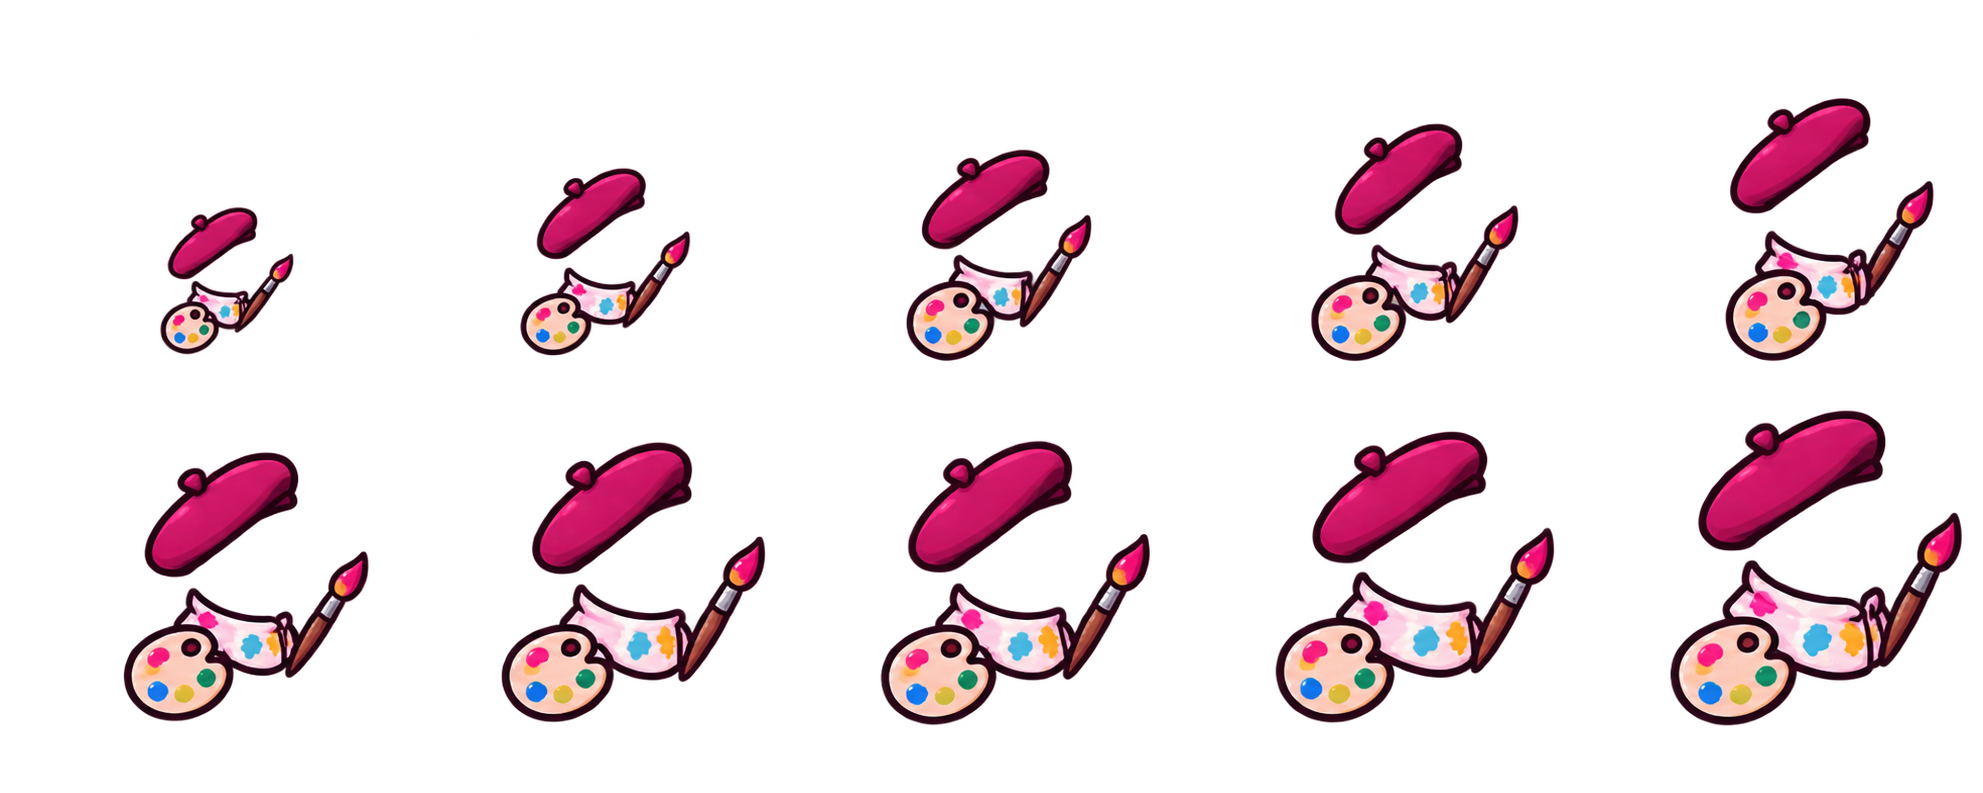
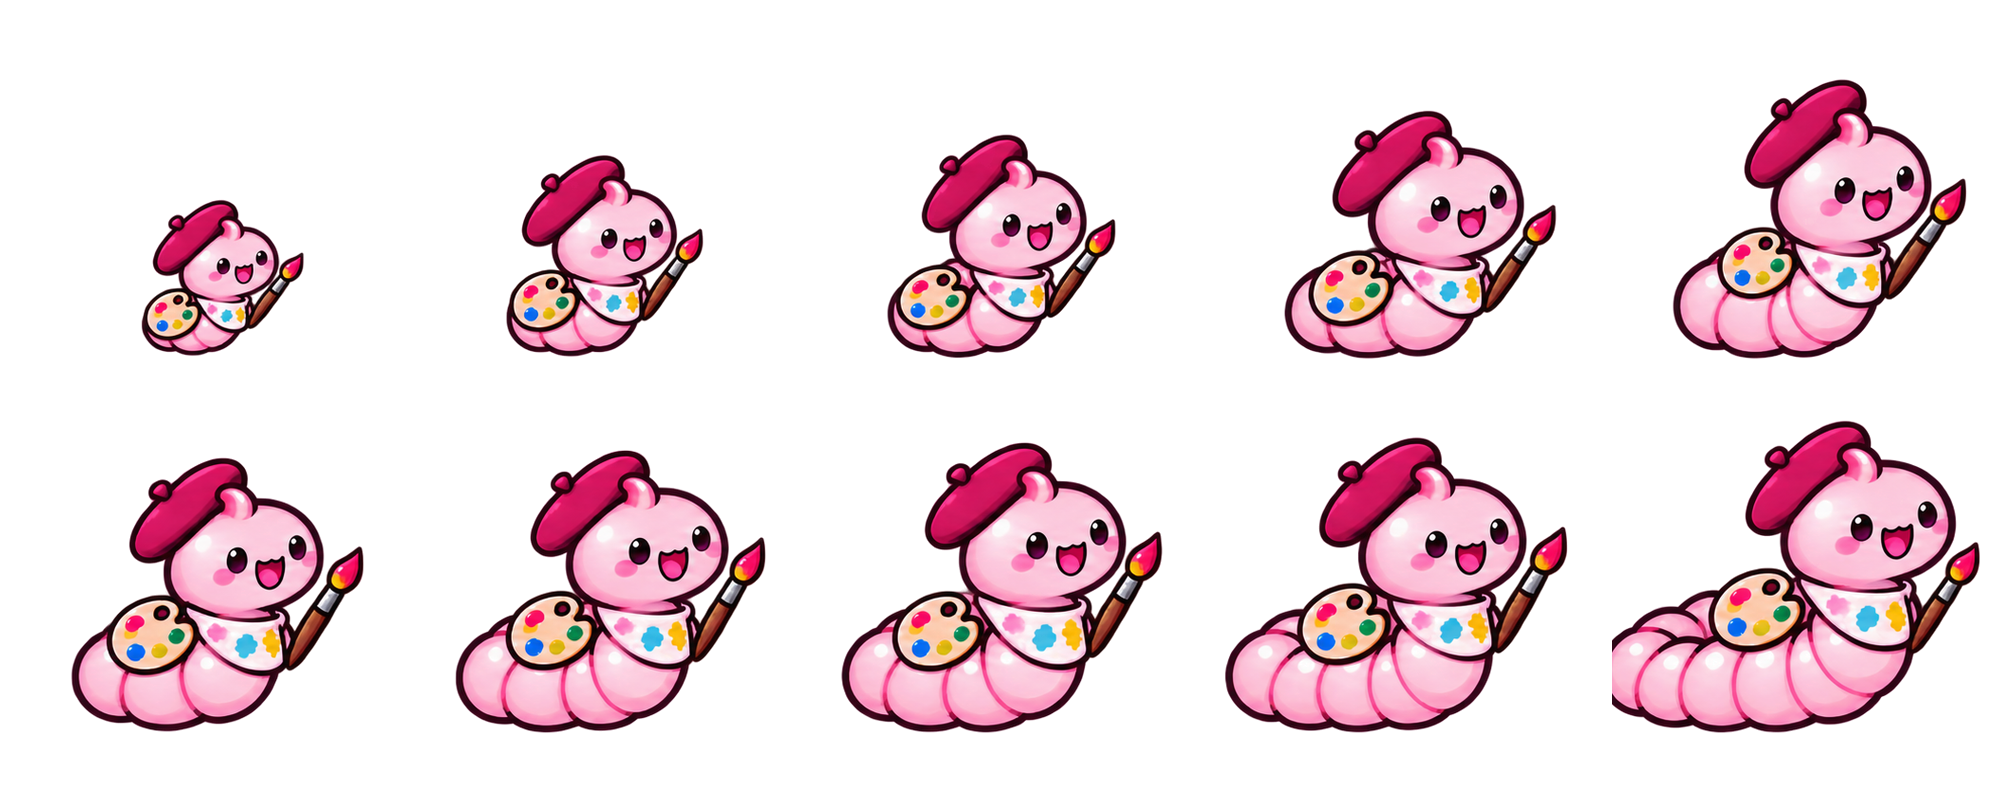
Fix tapeworm skin registration

diff --git a/tests/test_cepen.py b/tests/test_cepen.py
@@ -353,7 +353,7 @@ class CepenTests(unittest.TestCase):
         self.assertIn("12. 🐛 Игрок 4 — 4 см", full_text)
         self.assertIsNone(cepen.rating_keyboard(1, full_total, full=True))
 
-    def test_avatar_levels_render_base_and_profession_layers(self):
+    def test_avatar_levels_render_registered_profession_sprites(self):
         values = [0, 15, 15.001, 30, 31, 60, 61, 120, 121, 200,
                   201, 300, 301, 400, 401, 500, 501, 700, 701]
         self.assertEqual(
@@ -369,6 +369,36 @@ class CepenTests(unittest.TestCase):
                 self.assertEqual("RGB", image.mode)
             with Image.open(gamer) as image:
                 self.assertEqual((1024, 1024), image.size)
+                rendered_gamer = image.copy()
+            expected_gamer = Image.alpha_composite(
+                cepen_avatar._background(),
+                cepen_avatar._cell(
+                    cepen_avatar._sheet(
+                        str(cepen_avatar.SKIN_DIR / "gamer.png")
+                    ),
+                    10,
+                ),
+            ).convert("RGB")
+            self.assertEqual(expected_gamer.tobytes(), rendered_gamer.tobytes())
+
+        sheets = [
+            cepen_avatar.BASE_SHEET,
+            *(cepen_avatar.SKIN_DIR / f"{key}.png" for key in cepen_avatar.PROFESSIONS),
+        ]
+        for sheet_path in sheets:
+            with Image.open(sheet_path) as sheet:
+                self.assertEqual((2000, 800), sheet.size)
+                self.assertEqual("RGBA", sheet.mode)
+            source = cepen_avatar._sheet(str(sheet_path))
+            for level in range(1, 11):
+                alpha_bounds = cepen_avatar._cell(source, level).getchannel("A").getbbox()
+                self.assertIsNotNone(alpha_bounds, (sheet_path, level))
+                left, top, right, bottom = alpha_bounds
+                self.assertGreaterEqual(
+                    min(left, top, 1024 - right, 1024 - bottom),
+                    10,
+                    (sheet_path, level, alpha_bounds),
+                )
 
     def test_profession_menu_and_atomic_paid_changes(self):
         with closing(db.get_connection()) as conn:

diff --git a/cepen_avatar.py b/cepen_avatar.py
@@ -1,4 +1,4 @@
-"""Build tapeworm avatars from a neutral growth level and profession overlay."""
+"""Build tapeworm avatars from registered base and profession sprite sheets."""
 
 from __future__ import annotations
 
@@ -13,7 +13,7 @@ from PIL import Image
 ASSET_DIR = Path(__file__).resolve().parent / "assets" / "cepen"
 BASE_SHEET = ASSET_DIR / "base-levels.png"
 SKIN_DIR = ASSET_DIR / "skins"
-CACHE_DIR = Path(tempfile.gettempdir()) / "udb-cepen-avatars-v1"
+CACHE_DIR = Path(tempfile.gettempdir()) / "udb-cepen-avatars-v2"
 AVATAR_SIZE = 1024
 LEVEL_BREAKPOINTS = (15, 30, 60, 120, 200, 300, 400, 500, 700)
 PROFESSIONS = {
@@ -97,12 +97,9 @@ def render_avatar(
     if target.exists():
         return target
 
-    base = _cell(_sheet(str(BASE_SHEET)), level)
-    canvas = Image.alpha_composite(_background(), base)
-    if skin:
-        overlay_path = SKIN_DIR / f"{skin}.png"
-        overlay = _cell(_sheet(str(overlay_path)), level)
-        canvas = Image.alpha_composite(canvas, overlay)
+    sprite_path = SKIN_DIR / f"{skin}.png" if skin else BASE_SHEET
+    sprite = _cell(_sheet(str(sprite_path)), level)
+    canvas = Image.alpha_composite(_background(), sprite)
 
     temporary = target.with_name(f".{target.name}.{os.getpid()}.tmp")
     canvas.convert("RGB").save(temporary, format="PNG", optimize=True)

diff --git a/docs/cepen-avatars-professions-spec.md b/docs/cepen-avatars-professions-spec.md
@@ -4,7 +4,7 @@
 
 Сделать рост цепня видимым и дать владельцу персональную косметическую настройку. `/cepen` должен показывать квадратную аватарку, автоматически выбранную по длине, а меню профессий — менять накладываемый скин.
 
-Референс содержит десять разных размеров персонажа и десять профессий. Один аксессуар нельзя аккуратно растянуть на все размеры, поэтому графика хранится модульно: отдельный прозрачный лист с десятью базовыми уровнями и отдельный прозрачный лист каждой профессии с десятью согласованными вариантами посадки. Бот собирает выбранную пару в готовую аватарку и кеширует результат.
+Референс содержит десять разных размеров персонажа и десять профессий. Один аксессуар нельзя аккуратно растянуть на все размеры, поэтому графика хранится модульно: отдельный прозрачный лист с десятью базовыми уровнями и отдельный прозрачный лист каждой профессии с десятью готовыми одетыми персонажами. Профессиональный скин заменяет базового персонажа целиком. Это исключает несовпадение двух независимо нарисованных силуэтов, но сохраняет раздельное хранение базы и скинов.
 
 Исходники и итоговые изображения имеют размер 1024×1024 на отдельную аватарку. Этот размер сохраняет мелкие детали одежды и инструментов, а Telegram сам подготавливает экранные варианты меньшего размера.
 
@@ -33,6 +33,8 @@
 - [x] Старые текстовые меню продолжают корректно обрабатываться.
 - [x] Предпросмотр любой профессии не меняет БД и баланс, а кнопка подтверждения относится к показанной профессии.
 - [x] Подтверждение применяет показанную профессию; возврат отменяет предпросмотр и восстанавливает сохранённый скин.
+- [x] Все 100 сочетаний уровня и профессии содержат один цельный силуэт без наложения несовместимых тел, лиц или хвостов.
+- [x] Базовый и профессиональный варианты каждого уровня используют согласованный масштаб, центр и линию опоры.
 
 ## Контракты и данные
 
@@ -57,6 +59,6 @@ Callback-данные:
 
 ## Итог после реализации
 
-- Что фактически сделано и какие решения отличаются от плана: добавлены один прозрачный лист базовых уровней и десять прозрачных листов профессий. При запросе бот вырезает согласованную ячейку, собирает её на светлом фоне в PNG 1024×1024 и кеширует результат во временном каталоге. Выбор сначала работает как предпросмотр; отдельное подтверждение выполняет смену профессии и списание сита в одной транзакции. Повторная доставка callback не создаёт повторного списания.
-- Результаты проверок: `python scripts/check.py` в проектном окружении — синтаксис 59/59 и 63 теста. Отдельно проверены граничные длины, размеры и формат изображений, photo-ответ `/cepen`, предпросмотр без изменения баланса, платное подтверждение, отмена с восстановлением сохранённой аватарки, ledger, недостаток сита и очистка профессии при лечении.
+- Что фактически сделано и какие решения отличаются от плана: добавлены один прозрачный лист базовых уровней и десять прозрачных листов профессий. Первоначальные профессиональные листы с независимыми аксессуарами заменены цельными одетыми спрайтами: это устраняет расхождение двух силуэтов при композиции. Все листы нормализованы до сетки 2000×800 с ячейками 400×400 и безопасными прозрачными полями. При запросе бот вырезает одну ячейку, помещает её на светлый фон в PNG 1024×1024 и кеширует в каталоге версии `v2`. Выбор сначала работает как предпросмотр; отдельное подтверждение выполняет смену профессии и списание сита в одной транзакции.
+- Результаты проверок: `python scripts/check.py` в проектном окружении — синтаксис 59/59 и 63 теста. Визуально проверена контактная таблица всех 100 профессиональных сочетаний и десяти базовых уровней. Автотест проверяет размеры и RGBA-формат всех 11 листов, непустые 110 ячеек, безопасные поля, использование цельного профессионального спрайта без подмешивания базы, photo-ответ `/cepen`, предпросмотр, оплату и отмену.
 - Известные ограничения: уже открытое старое текстовое меню остаётся текстовым при переходах; новая аватарка появляется при следующем вызове `/cepen`. Сгенерированные композиции кешируются локально на каждом экземпляре бота и пересобираются после очистки системного временного каталога.

diff --git a/docs/architecture.md b/docs/architecture.md
@@ -8,7 +8,7 @@
 | Веб | `web/server.py` создаёт FastAPI `app`, содержит авторизацию, маршруты и часть игровой логики. `web/photo_api.py` добавляет маршруты фото. `web/templates/` и `web/static/` отвечают за интерфейс. | Сессионные cookie, общая SQLite-база, Telegram API. |
 | AI-задачи | `ai_tasks.py` создаёт и обрабатывает очереди задач и промпты. `ai_worker.py` и `ai_classifier_worker.py` работают отдельно и обращаются к веб-API; `web_search.py` обслуживает поиск. | Таблицы AI-задач в SQLite, локальная Ollama, при поиске SearXNG. |
 | Данные | `db.py` задаёт подключение, часть создания/расширения таблиц и операции с балансом. Другие модули также создают собственные таблицы. | `stats.db` — рабочая база; обзор схемы: `STATS_DB_SCHEMA.md`. `stats.json` отслеживается Git и требует отдельной проверки перед изменением. |
-| Цепень | `cepen.py` хранит правила заражения, имени и FSM переименования, профессии, полного и частичного роста, лечения, социального чесания, меню `/cepen`, рейтинга и ежедневных реплик хосту. `cepen_avatar.py` выбирает один из десяти уровней и собирает аватарку из прозрачных листов `assets/cepen/`. `main.py` отслеживает сообщения, кофе, магазин и запускает планировщики; `geyser.py`, `sosalsa.py`, `dick.py`, `group.py` передают успешные события. | `users.cepen`, `users.cepen_name`, `users.cepen_profession`, `users.cepen_growth_date`, `dicks.length`, `cepen_event_checks`, `cepen_daily_messages`, `cepen_scratches`, `settings.enable_cepen`, `sit_ledger`. Дейлики проверяются в назначенное время; реплики хосту и лимиты чесания используют серверную дату. |
+| Цепень | `cepen.py` хранит правила заражения, имени и FSM переименования, профессии, полного и частичного роста, лечения, социального чесания, меню `/cepen`, рейтинга и ежедневных реплик хосту. `cepen_avatar.py` выбирает один из десяти уровней и рендерит зарегистрированный базовый или профессиональный спрайт из `assets/cepen/`; профессиональные листы содержат цельных одетых персонажей, чтобы независимо нарисованные слои не расходились. `main.py` отслеживает сообщения, кофе, магазин и запускает планировщики. | `users.cepen`, `users.cepen_name`, `users.cepen_profession`, `users.cepen_growth_date`, `dicks.length`, `cepen_event_checks`, `cepen_daily_messages`, `cepen_scratches`, `settings.enable_cepen`, `sit_ledger`. Дейлики проверяются в назначенное время; реплики хосту и лимиты чесания используют серверную дату. |
 | Фото дейликов | `photo_bot.py` принимает и обрабатывает загрузки, `photo_albums.py` хранит состояние, `photo_convert.py` выполняется отдельным процессом, `web/photo_api.py` выдаёт альбомы. | SQLite и локальные медиафайлы. |
 | Развёртывание | `deploy/udb-bot.service`, `deploy/udb-web.service`, `start_bot.sh`, `stop_bot.sh`. | На VPS используются отдельные процессы бота и веба, локально может работать AI worker. |
 
